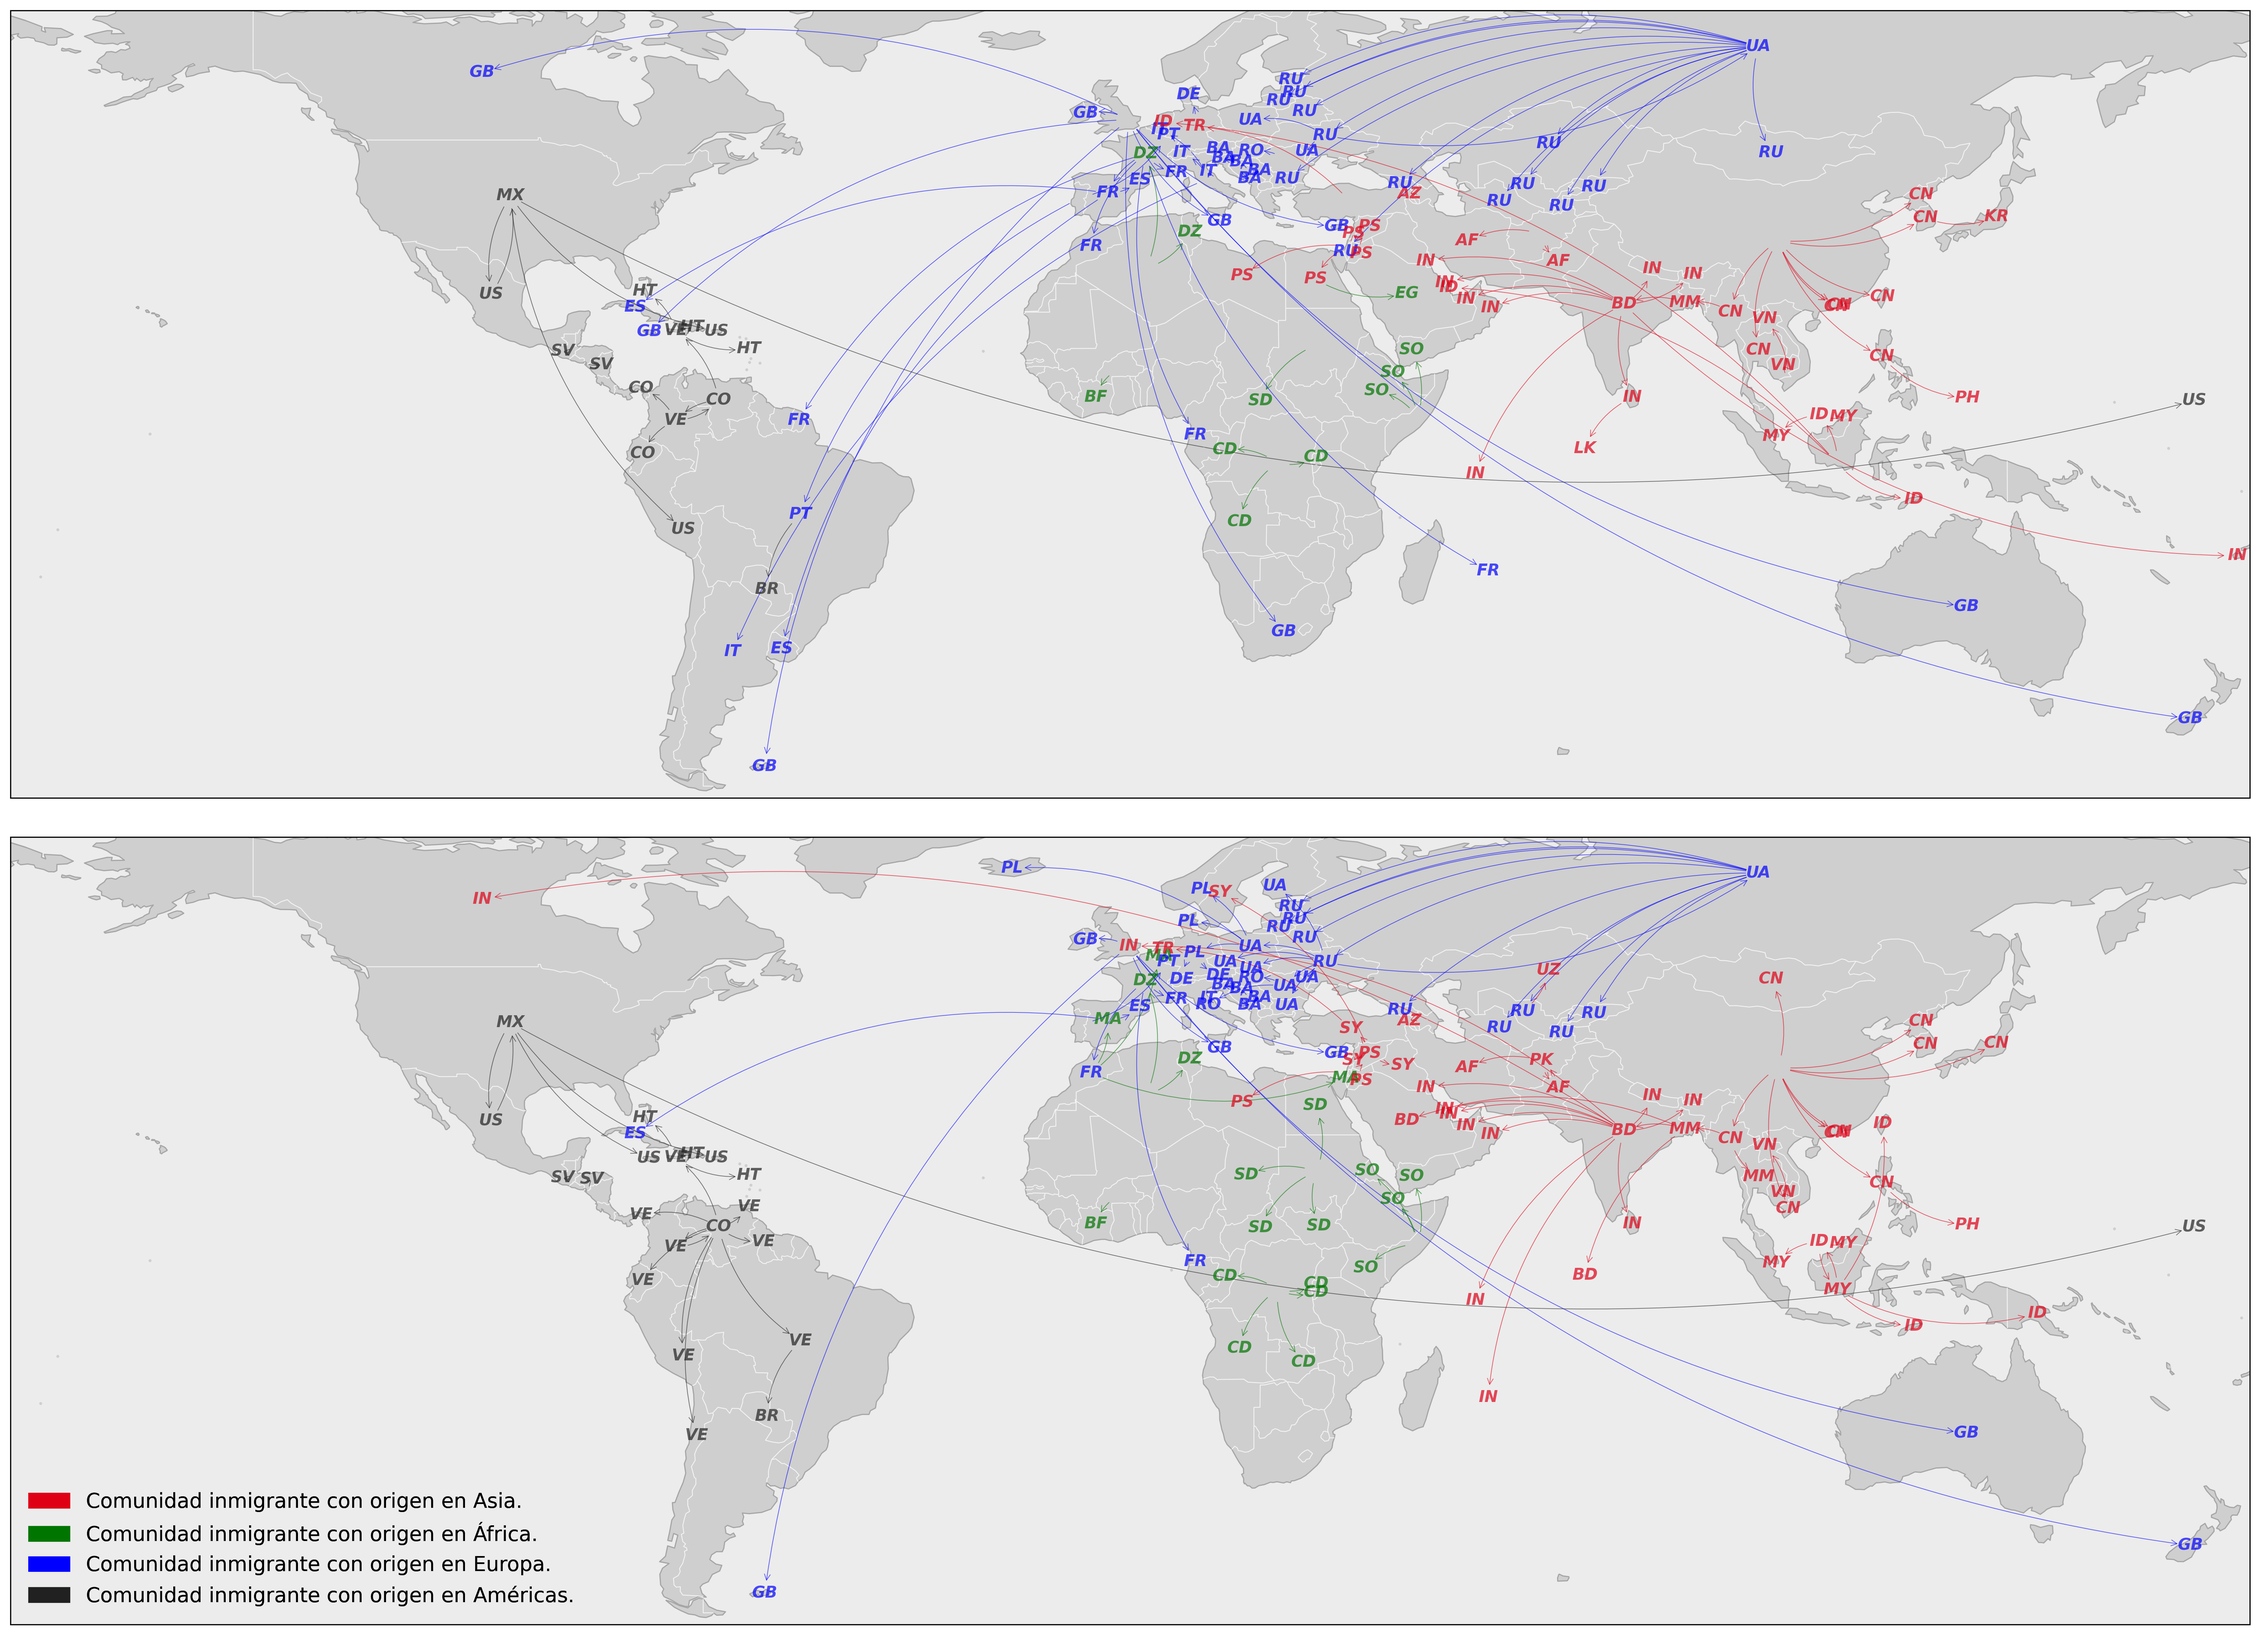
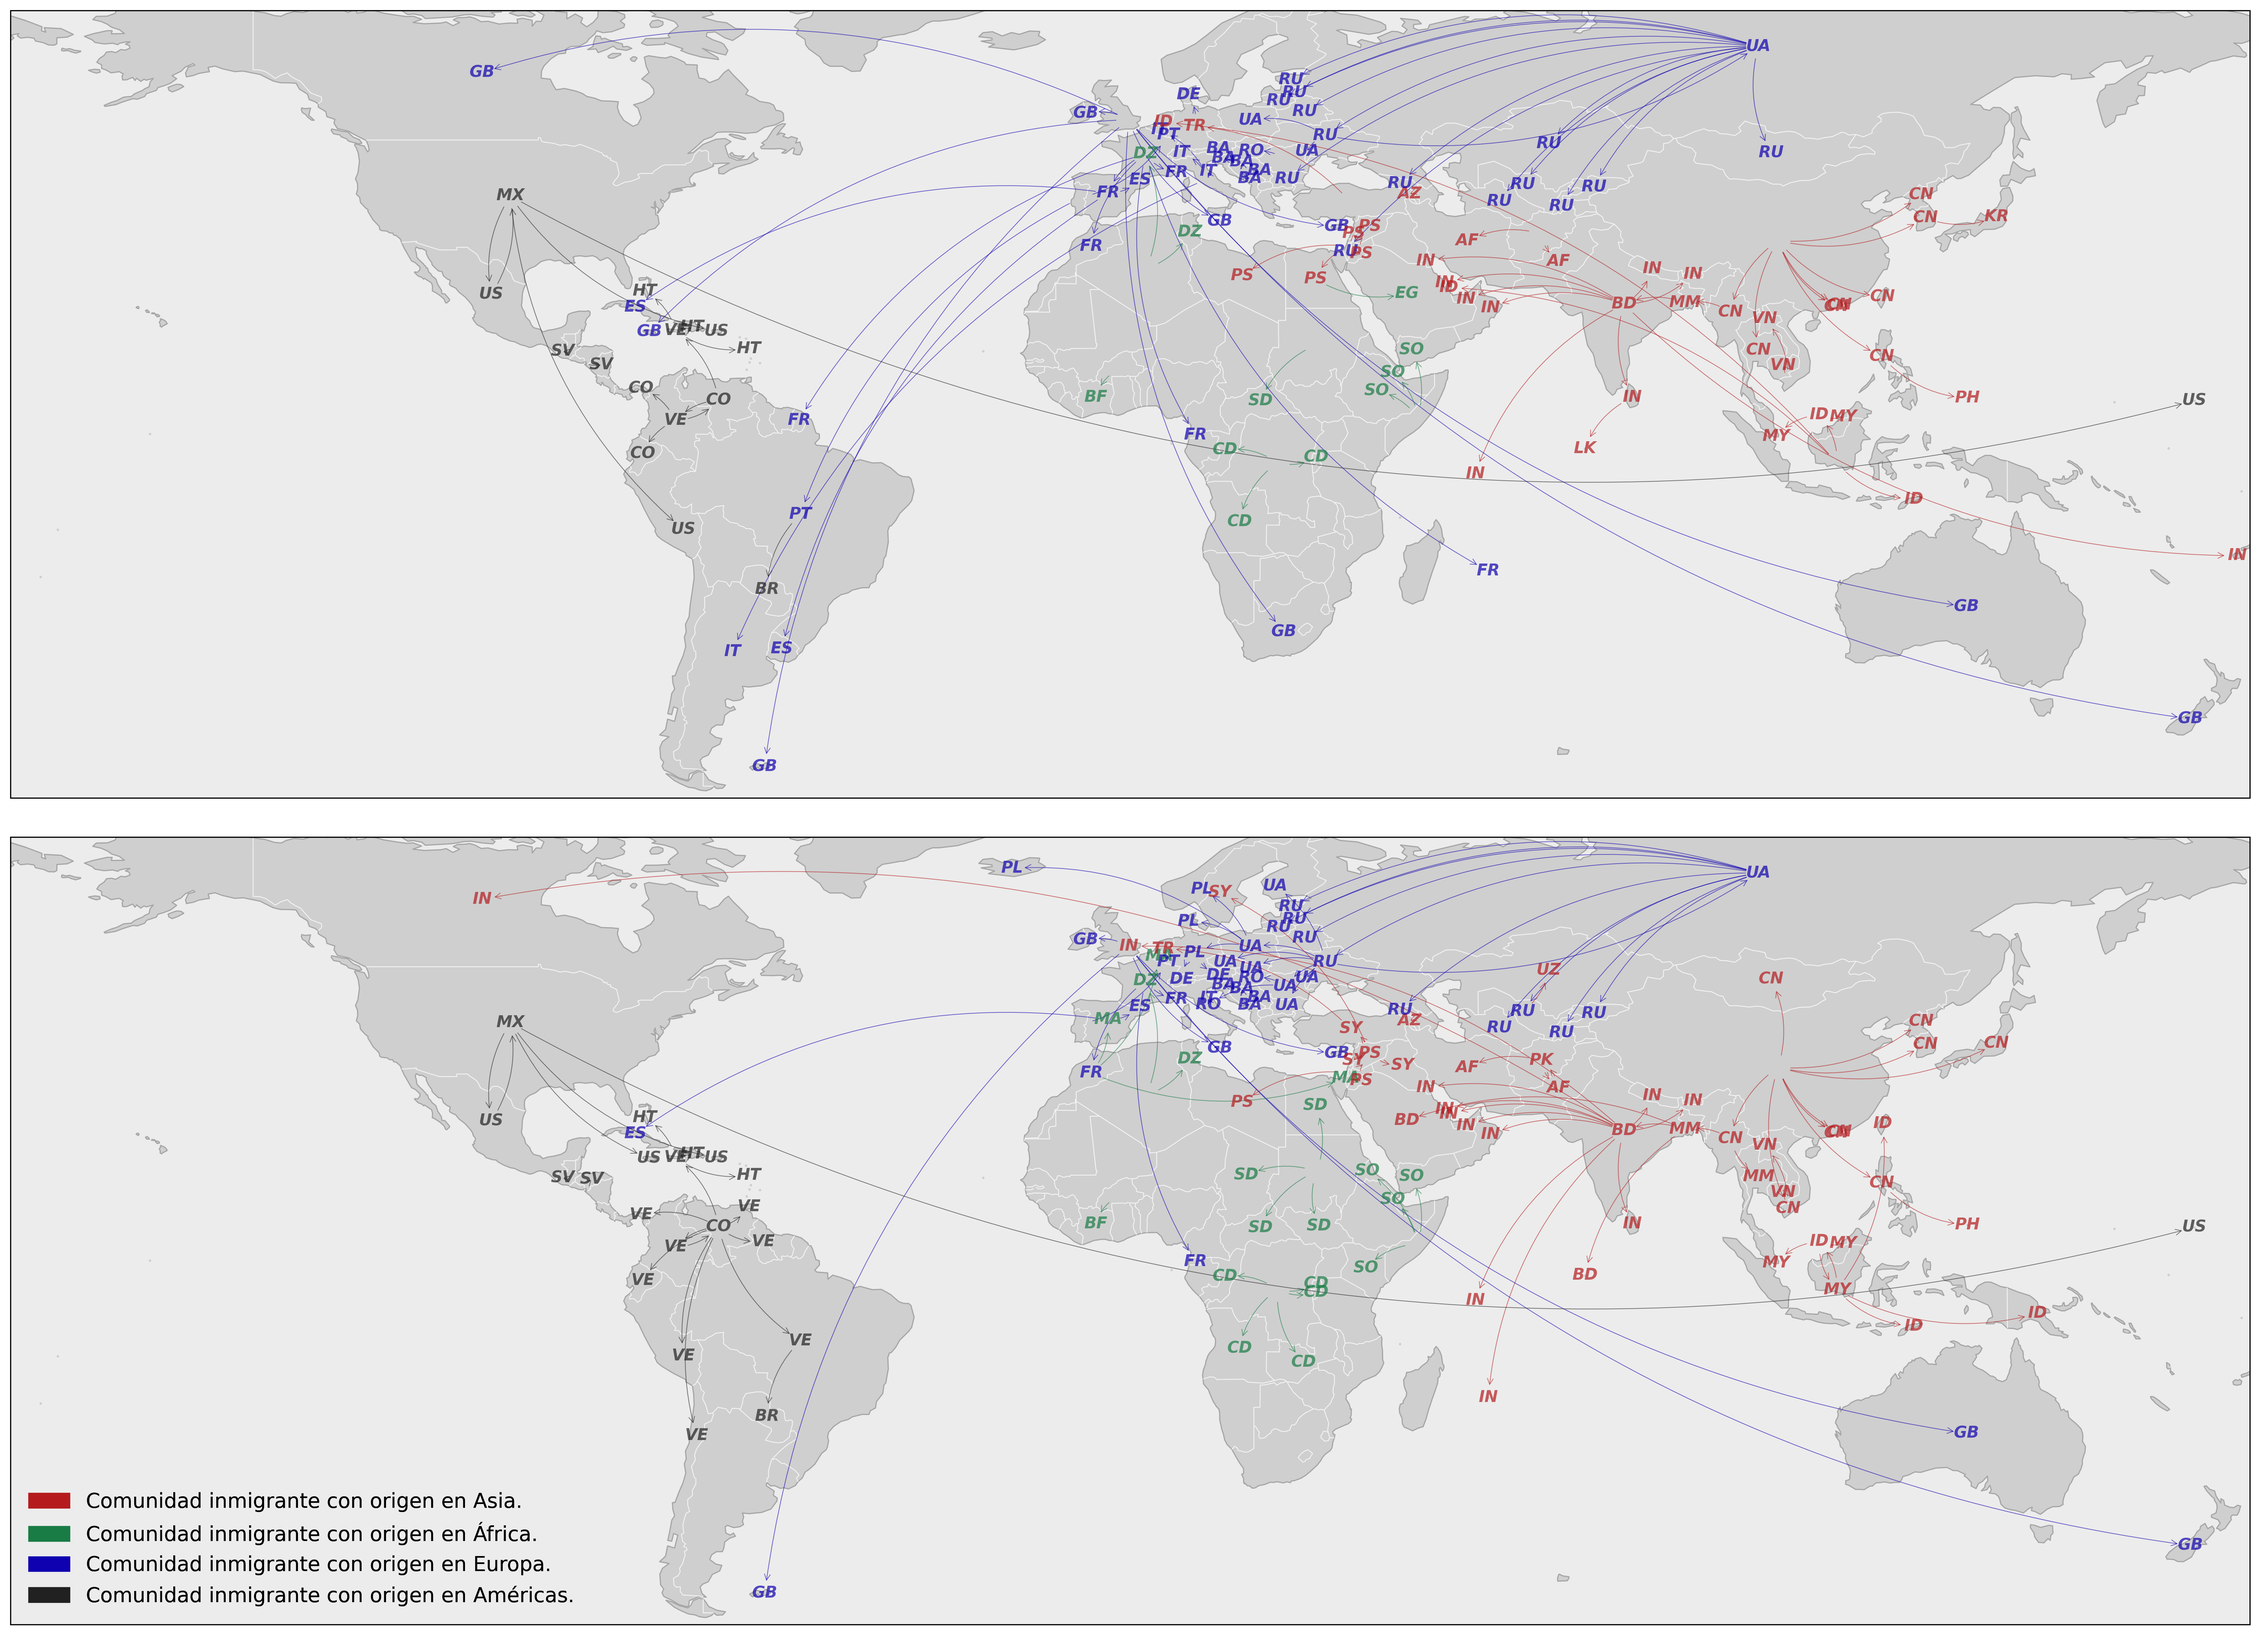
Actualización color principales comunidades de migrantes

diff --git a/funciones_auxiliares.py b/funciones_auxiliares.py
@@ -238,9 +238,9 @@ def graficar_comunidades_ppales(
     # Colores del grafo
     color_nodos = args.get('color_nodos', '#b1b1b1')
     colores_por_region = {
-        'Asia': '#df0016',
-        'África': '#007500',
-        'Europa': '#0000ff',
+        'Asia': '#b51b1e',
+        'África': '#197c45',
+        'Europa': '#0f00b0',
         'Américas': '#212121',
         'Oceanía': '#c67d00',        
     }
@@ -281,7 +281,7 @@ def graficar_comunidades_ppales(
     nx.draw_networkx_nodes(
         grafo_pobla_ext,
         pos_nodos,
-        node_size=1,
+        node_size=.5,
         ax=eje,
         node_color=tierra
     )
